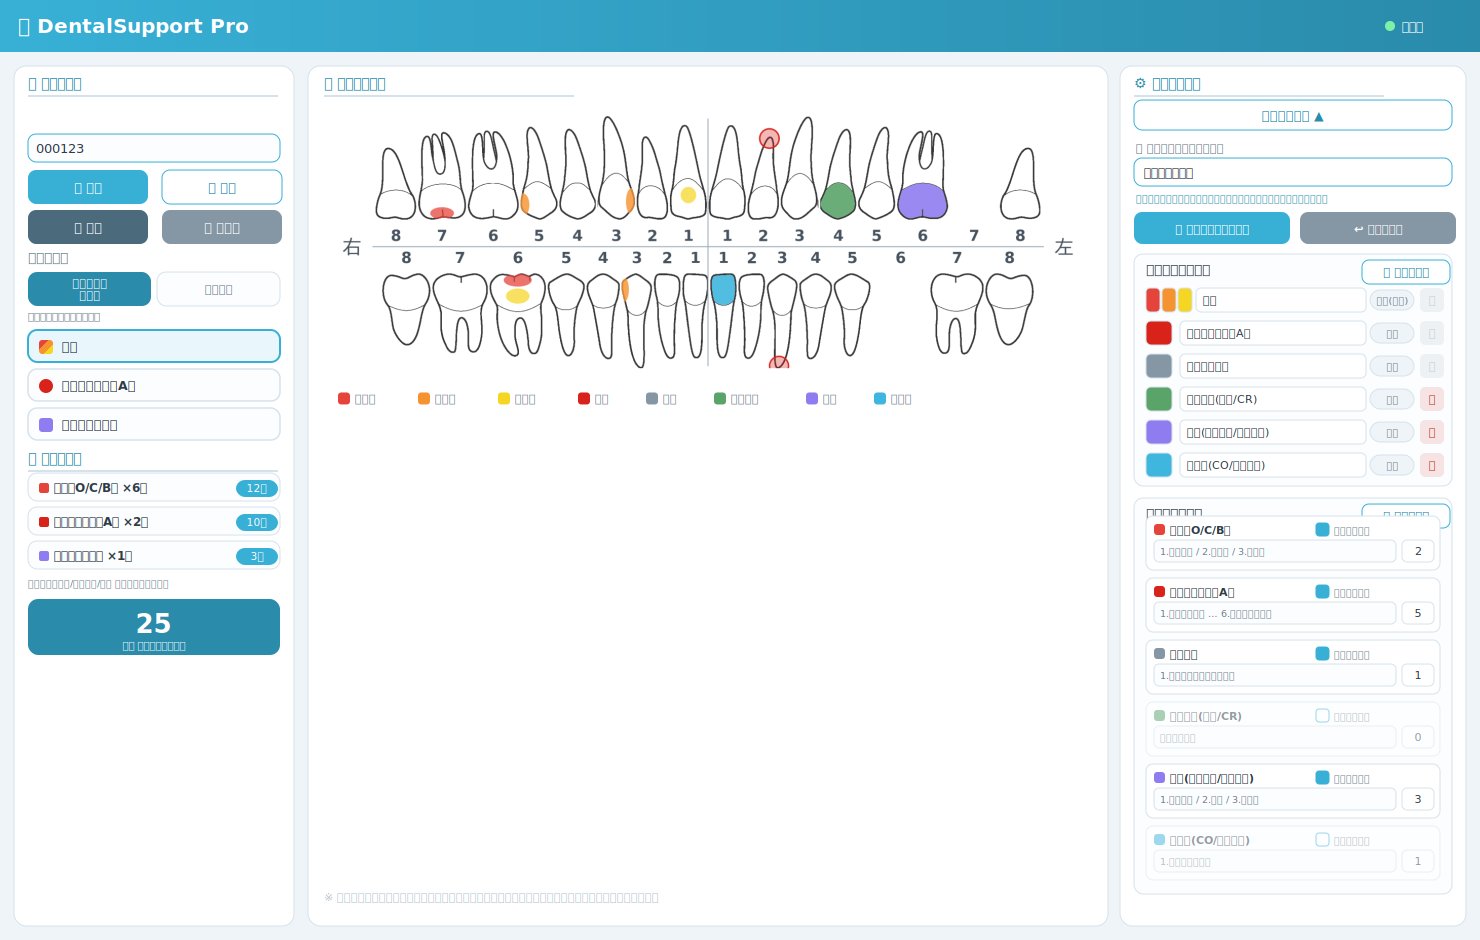
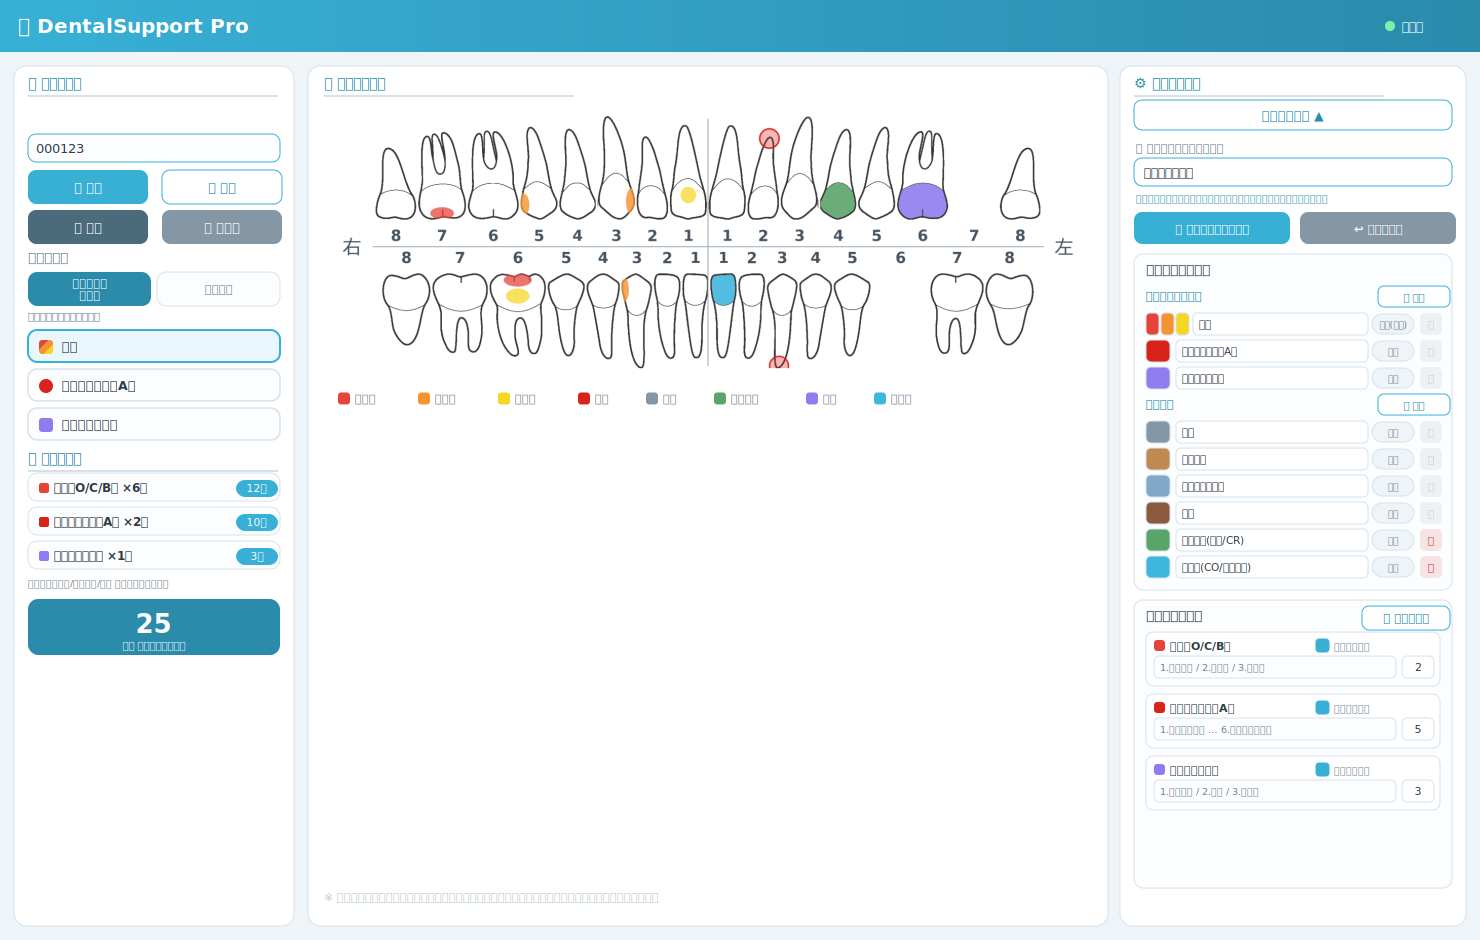
歯式作成・プロブレムリスト両方を編集から項目追加可能に
- モード編集の各グループ見出しに「＋追加」ボタンを設置
  - プロブレムリスト＋追加: 治療連動(linked)＋工程付きで追加
  - 歯式作成＋追加: 現状記録(非連動)で追加
- 単一の「＋モード追加」ボタンを廃止し、addModeToGroup(group)に統一
- ＋工程を追加 はプロブレムリストへの追加として addModeToGroup(problem) に集約
- プレビュー更新

diff --git a/index.html b/index.html
@@ -49,7 +49,9 @@
   .grp-tab.active { border-color: var(--accent-dark); background: linear-gradient(120deg,var(--accent),var(--accent-dark)); color: #fff; box-shadow: var(--shadow); }
   .grp-note { font-size: 10.5px; color: var(--text-soft); margin: 0 0 8px; }
   .grp-items { display: flex; flex-direction: column; gap: 7px; }
-  .seg .mg-sub { font-size: 12px; font-weight: 700; color: var(--accent-dark); margin: 4px 0 6px; }
+  .seg .mg-sub { font-size: 12px; font-weight: 700; color: var(--accent-dark); margin: 6px 0; display: flex; justify-content: space-between; align-items: center; }
+  .seg .mg-sub .addg { font-size: 11px; font-weight: 700; color: var(--accent-dark); background: #fff; border: 1px solid var(--accent); border-radius: 6px; padding: 3px 9px; cursor: pointer; }
+  .seg .mg-sub .addg:hover { background: #eaf7fc; }
   .mode-btn { display: flex; align-items: center; gap: 10px; padding: 9px 11px; border: 1.5px solid var(--line); border-radius: 9px; background: #fbfdff; cursor: pointer; font-size: 13px; font-weight: 600; color: var(--text); transition: all .15s; }
   .mode-btn:hover { border-color: var(--accent); }
   .mode-btn.active { border-color: var(--accent); background: #e9f7fc; box-shadow: inset 0 0 0 1px var(--accent); }
@@ -231,10 +233,8 @@
       </div>
 
       <div class="seg" style="margin-top:10px;">
-        <div class="seg-title">操作モードの編集
-          <button class="btn ghost" id="addModeBtn" style="padding:5px 9px;font-size:12px;">＋ モード追加</button>
-        </div>
-        <p class="hint">色と名称を変更できます。追加モードは「歯全体を着色」タイプです。🗑で削除（既定モードは削除不可）。</p>
+        <div class="seg-title">操作モードの編集</div>
+        <p class="hint">色と名称を変更できます。各グループの「＋ 追加」で項目を増やせます（追加は「歯全体を着色」タイプ）。🗑で削除（既定モードは削除不可）。</p>
         <div id="modeEditor"></div>
       </div>
 
@@ -550,7 +550,7 @@ function renderModeEditor() {
   document.getElementById("modeEditor").innerHTML = GROUPS.map(gr => {
     const rows = modes.map((m,idx)=>[m,idx]).filter(([m])=>(m.group||"status")===gr.key);
     if (!rows.length) return "";
-    return `<div class="mg-sub">${escapeHtml(gr.label)}</div>` + rows.map(([m,idx])=>rowHtml(m,idx)).join("");
+    return `<div class="mg-sub">${escapeHtml(gr.label)}<button class="addg" data-addgroup="${gr.key}">＋ 追加</button></div>` + rows.map(([m,idx])=>rowHtml(m,idx)).join("");
   }).join("");
 }
 function renderPlanEditor() {
@@ -585,6 +585,8 @@ document.getElementById("modeEditor").addEventListener("input", (e) => {
   }
 });
 document.getElementById("modeEditor").addEventListener("click", (e) => {
+  const addBtn = e.target.closest("[data-addgroup]");
+  if (addBtn) { addModeToGroup(addBtn.dataset.addgroup); return; }
   if (e.target.dataset.k !== "del") return;
   const row = e.target.closest(".mode-row"); const m = modes[+row.dataset.idx];
   if (!m || m.locked) return;
@@ -592,16 +594,20 @@ document.getElementById("modeEditor").addEventListener("click", (e) => {
   modes = modes.filter(x => x !== m);
   if (!modes.some(x => x.cat === m.cat)) delete plan[m.cat];
   Object.values(toothData).forEach(d => { if (d.state === m.id) d.state = null; delete d.marks[m.id]; });
-  if (currentMode === m.id) currentMode = modes[0].id;
+  if (currentMode === m.id) currentMode = (modes.find(x=>(x.group||"status")===activeGroup)||modes[0]).id;
   renderModeEditor(); renderPlanEditor(); refreshModeUI(); updateProcess();
 });
-document.getElementById("addModeBtn").addEventListener("click", () => {
-  const id = "m" + Date.now().toString(36);
-  const palette = ["#e67e22","#16a085","#9b59b6","#2980b9","#c0392b","#d35400","#27ae60"];
-  modes.push({ id, group:"status", label:"新規モード", color:palette[modes.length % palette.length], type:"whole", cat:id, locked:false });
-  plan[id] = { label:"新規モード", steps:[], visits:0, linked:false };
+/* グループに項目を追加（プロブレム=治療連動／歯式作成=現状記録） */
+function addModeToGroup(group){
+  const id = (group==="problem"?"p":"m") + Date.now().toString(36);
+  const palette = ["#e67e22","#16a085","#9b59b6","#2980b9","#c0392b","#d35400","#27ae60","#2c3e50"];
+  const color = palette[modes.length % palette.length];
+  const label = group==="problem" ? "新規処置" : "新規項目";
+  modes.push({ id, group, label, color, type:"whole", cat:id, locked:false });
+  plan[id] = group==="problem" ? { label, steps:["1.処置"], visits:1, linked:true }
+                               : { label, steps:[], visits:0, linked:false };
   renderModeEditor(); renderPlanEditor(); refreshModeUI(); updateProcess();
-});
+}
 document.getElementById("planEditor").addEventListener("input", (e) => {
   const row = e.target.closest(".plan-row"); if (!row) return;
   const cat = row.dataset.cat, p = plan[cat]; const k = e.target.dataset.k;
@@ -616,14 +622,8 @@ document.getElementById("planEditor").addEventListener("input", (e) => {
   }
   updateProcess();
 });
-// 治療工程（歯に紐づく処置）を追加：操作モードにも追加される
-document.getElementById("addProcBtn").addEventListener("click", () => {
-  const id = "p" + Date.now().toString(36);
-  const palette = ["#e67e22","#16a085","#9b59b6","#2980b9","#c0392b","#d35400","#27ae60","#2c3e50"];
-  modes.push({ id, group:"problem", label:"新規処置", color:palette[modes.length % palette.length], type:"whole", cat:id, locked:false });
-  plan[id] = { label:"新規処置", steps:["1.処置"], visits:1, linked:true };
-  renderModeEditor(); renderPlanEditor(); refreshModeUI(); updateProcess();
-});
+// 治療工程（プロブレムリストへ追加）：操作モードにも追加される
+document.getElementById("addProcBtn").addEventListener("click", () => addModeToGroup("problem"));
 
 /* ================= 医院共通設定（保存・読込） ================= */
 function applyClinicSettings(s) {
